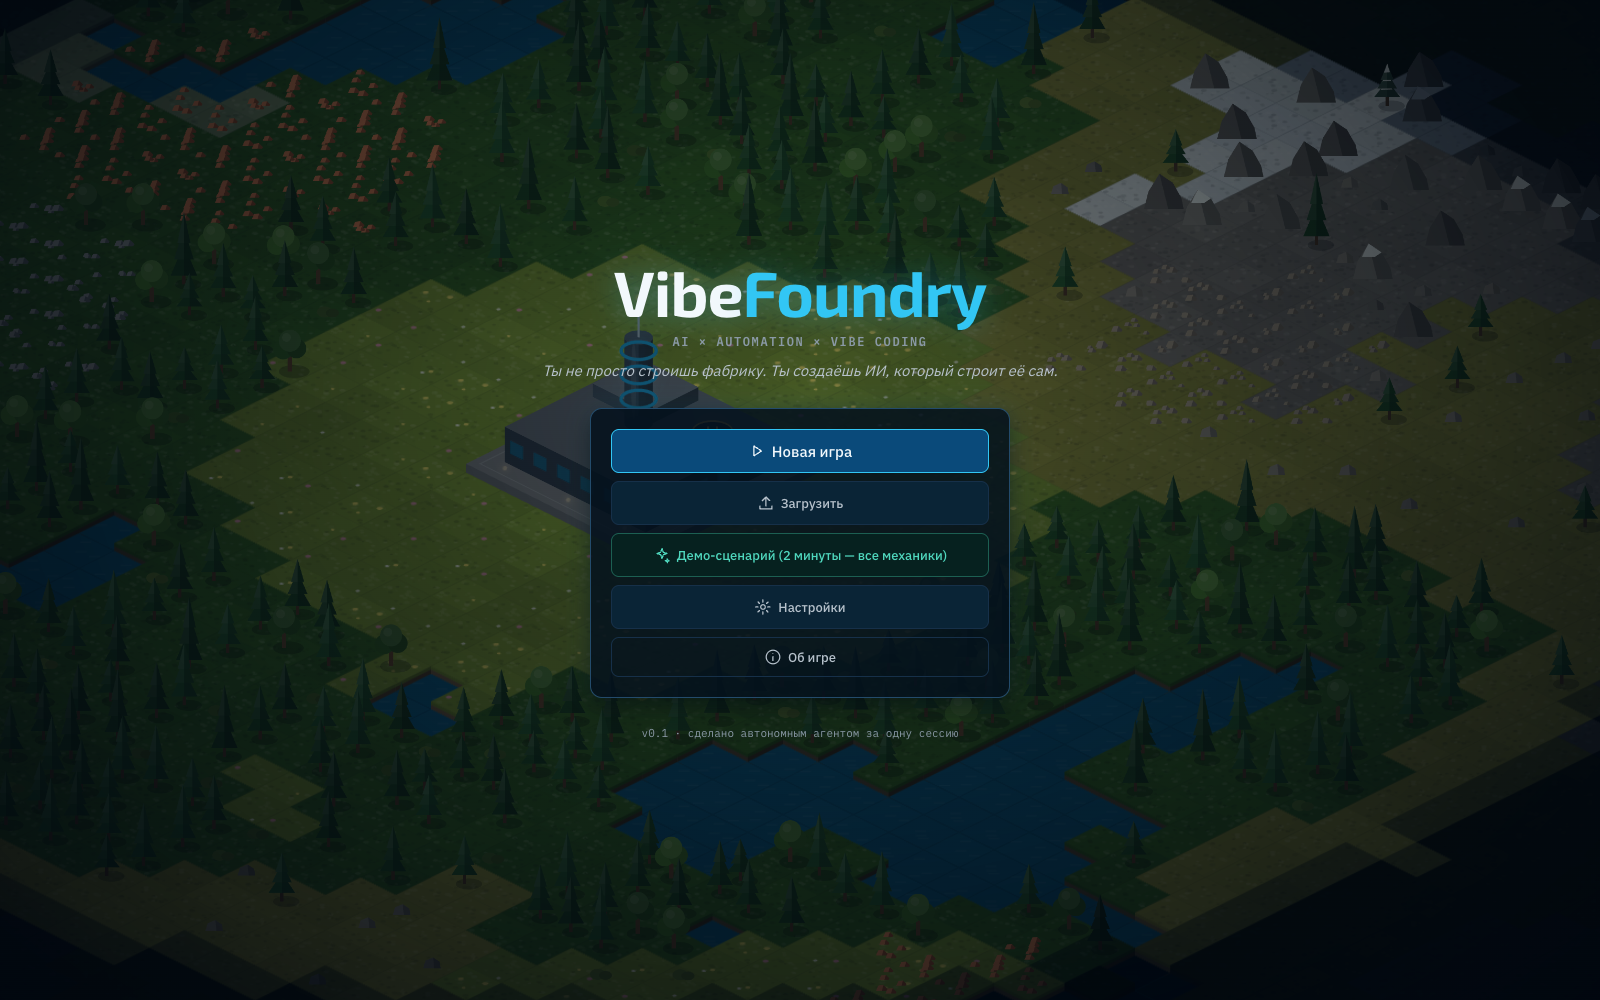
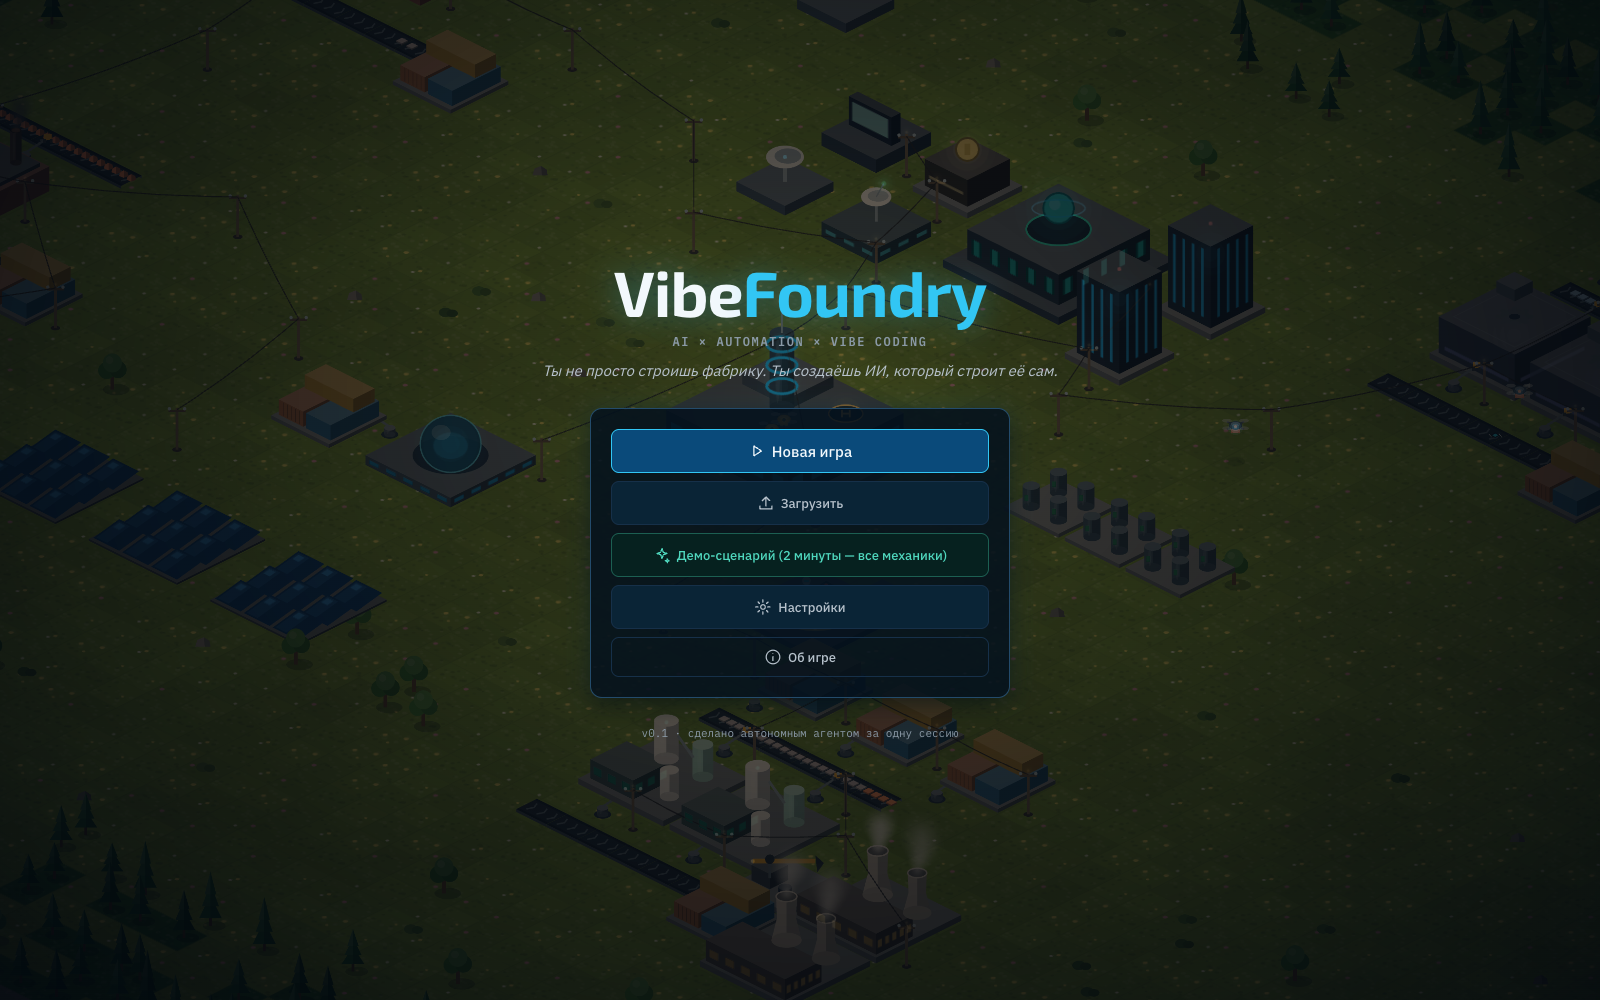
polish: power coverage in Alt overlay, expedition countdown

diff --git a/vibefoundry/src/ui/windows.tsx b/vibefoundry/src/ui/windows.tsx
@@ -164,7 +164,11 @@ export function DronesWindow({ game }: { game: Game }) {
                 <span style={{ color: 'var(--amber)' }}><Icon name="question" size={16} /></span>
                 <span class="mono">({p.x}, {p.y})</span>
                 <span class="muted">{Math.round(Math.hypot(p.x - hq.x, p.y - hq.y))} тайлов</span>
-                {p.claimedBy ? <span class="pos" style={{ marginLeft: 'auto' }}>дрон в пути</span> : (
+                {p.claimedBy ? (() => {
+                  const d = sim.drones.find((x) => x.id === p.claimedBy);
+                  const left = d && d.state === 'expedition' ? Math.max(0, Math.ceil((d.kind === 'worker' ? 15 : 30) - d.t)) : null;
+                  return <span class="pos" style={{ marginLeft: 'auto' }}>{left !== null ? `экспедиция: ${left} с` : 'дрон в пути'}</span>;
+                })() : (
                   <button class="btn small" style={{ marginLeft: 'auto' }} onClick={() => {
                     const d = sim.drones.find((x) => (x.kind === 'worker' || x.kind === 'construction') && x.state === 'idle');
                     if (d && sendToPoi(sim, d, p.id)) game.pushToast({ kind: 'info', title: 'Экспедиция отправлена', text: `${DRONE_NAMES[d.kind]} → (${p.x}, ${p.y})` });

diff --git a/vibefoundry/src/render/renderer.ts b/vibefoundry/src/render/renderer.ts
@@ -297,7 +297,7 @@ export class WorldRenderer {
     const p = this.preview;
     if (p) {
       const def = BUILDINGS[p.type];
-      const coverage = !!def.power || !!def.poleReach || !!def.gen;
+      const coverage = !!def.power || !!def.poleReach || !!def.gen || this.altMode;
       this.drawCoverage(coverage);
       p.tiles.forEach((t, i) => {
         const ok = p.valid[i];
@@ -333,7 +333,7 @@ export class WorldRenderer {
         if (def.rotatable && p.type !== 'belt') this.drawArrowFor(g, p.type, t.x, t.y, t.dir, def.w, def.h);
         if (def.poleSupply && i === 0) this.diamond(g, t.x - def.poleSupply, t.y - def.poleSupply, 1 + def.poleSupply * 2, 1 + def.poleSupply * 2, PAL.amber, 1.5, 0.8, { color: PAL.amber, alpha: 0.06 });
       });
-    } else this.drawCoverage(false);
+    } else this.drawCoverage(this.altMode);
   }
 
   private circle(g: Graphics, cx: number, cy: number, r: number, color: number): void {
